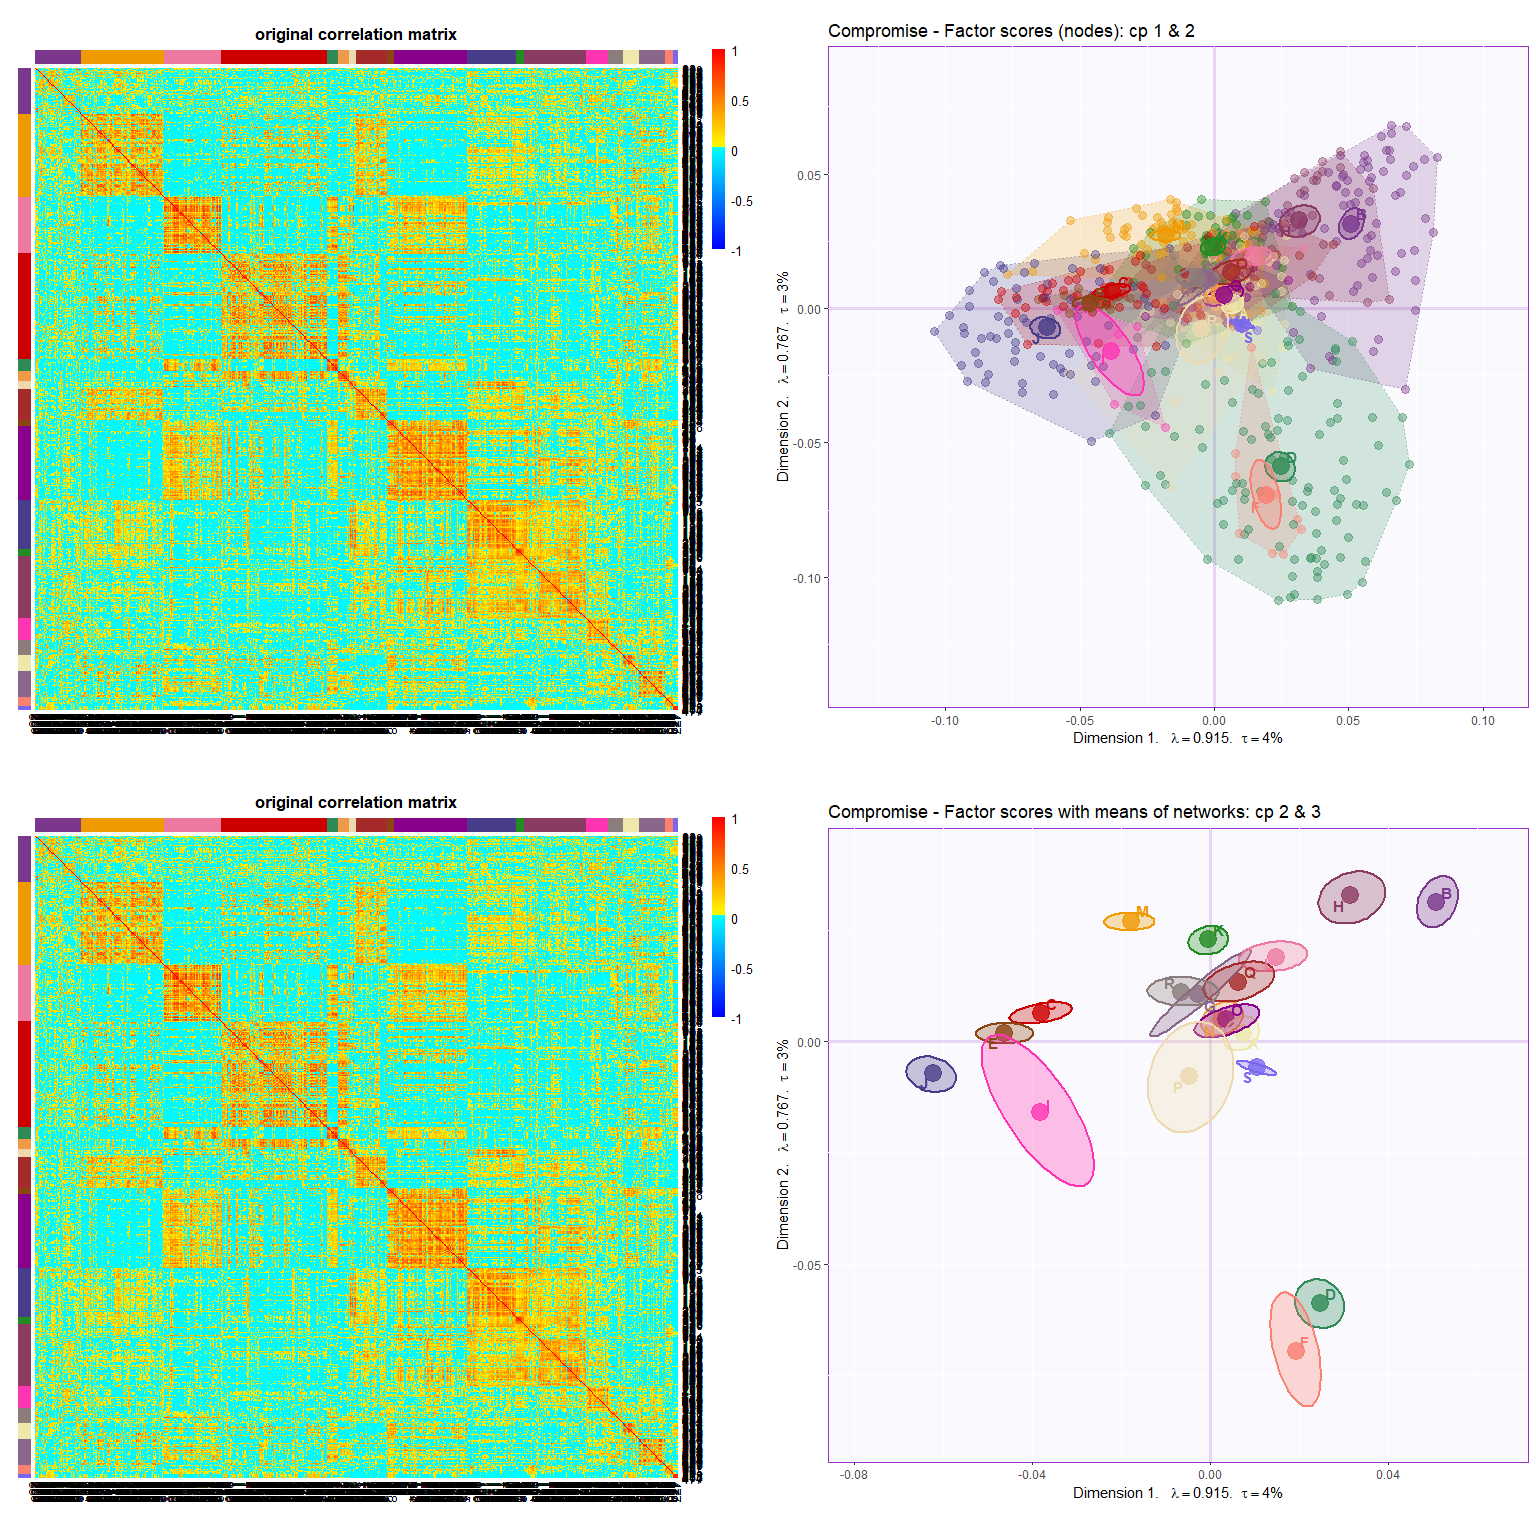
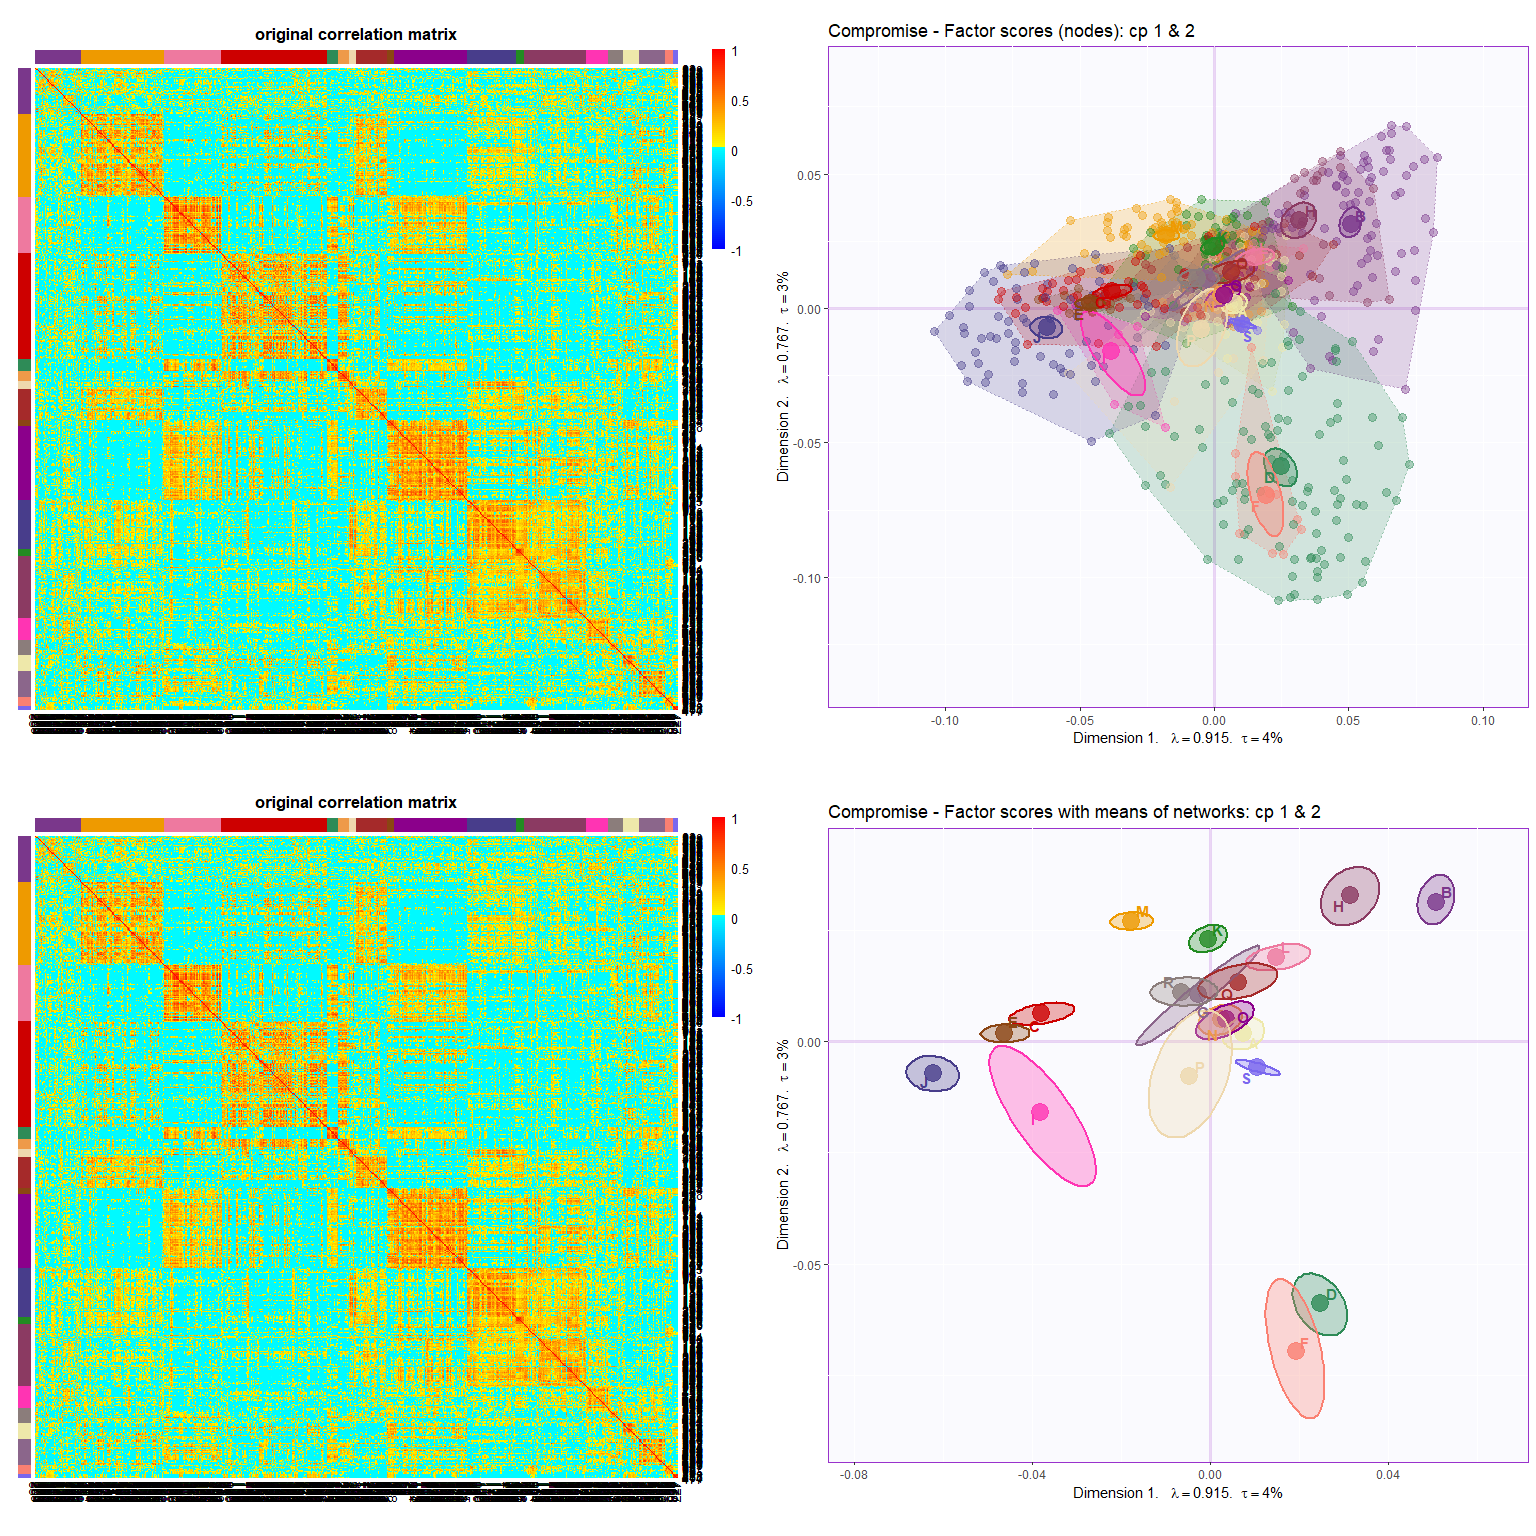
Add heatmaps of all sessions

diff --git a/testing_jc/Demo_DiSTATIS.md b/testing_jc/Demo_DiSTATIS.md
@@ -68,7 +68,7 @@ vox.order.col <- list(Comm = c("A" = Comm.col$gc[1],
 value.col <- colorRamps::blue2red(100)
 ```
 
-## Check data with heatmap
+## Check data with heatmap for the first session
 
 ![](Demo_DiSTATIS_files/figure-gfm/show_heatmap-1.png)<!-- -->
 
@@ -134,10 +134,16 @@ BootCube.Comm <- Boot4Mean(distatis.res$res4Splus$F,
 
 #### Plot
 
+##### All heat maps
+
+![](Demo_DiSTATIS_files/figure-gfm/plot_fig_10hmap-1.png)<!-- -->
+
 ##### Component 1 & 2
 
 ![](Demo_DiSTATIS_files/figure-gfm/plot_fig12_mean-1.png)<!-- -->
 
 ##### Component 2 & 3
+
+    ## Warning: Removed 2 rows containing non-finite values (stat_ellipse).
 
 ![](Demo_DiSTATIS_files/figure-gfm/plot_fig23_mean-1.png)<!-- -->
